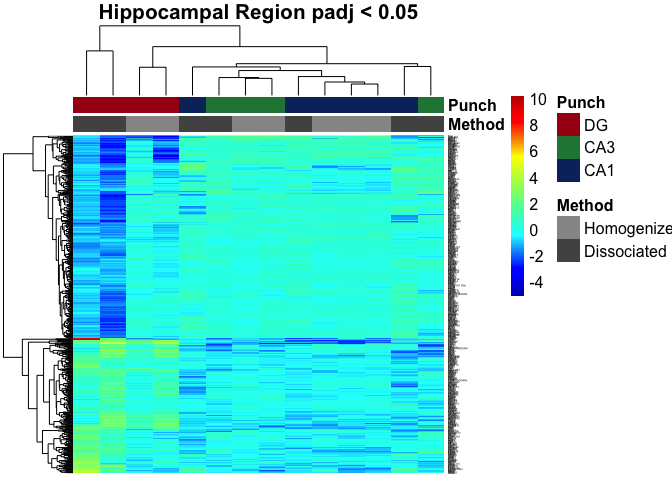
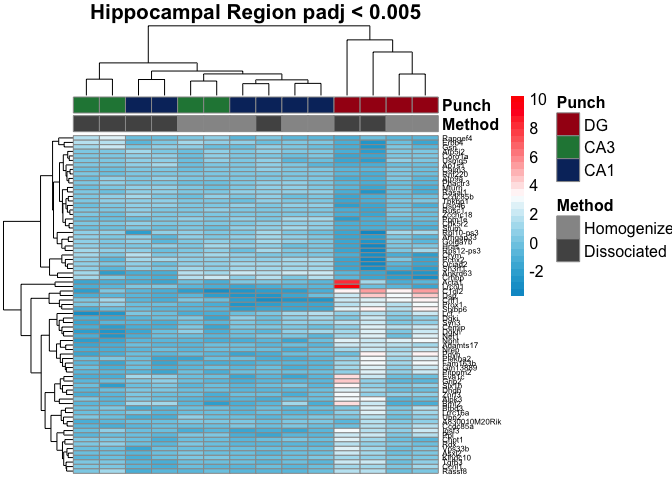
new figs

diff --git a/bin/DissociationTest.md b/bin/DissociationTest.md
@@ -9,9 +9,7 @@ This PCA gives an overview of the variability between samples using the a large 
 
 This Venn Diagram shows the number of differentially expressed by contrast described above each oval. The most number of genes are differntially expressed between DG and the CAs (nearly 1000) wheras only about 200 were differntailly regulated as a result of of technical maniplulation comparing homogenized and dissociated samples.
 
-![](../figures/allregions_onlyhomodiss/VennDiagram.png)
-
-![](../figures/allregions_onlyhomodiss/VennDiagram-1.png)
+![](../figures/allregions_onlyhomodiss/VennDiagram-1.png)![](../figures/allregions_onlyhomodiss/VennDiagram-2.png)
 
 I'm not really happy with these two heat maps. Here's how I created them. Top heatmap: subset the data to give only the gene with an adjusted p value \< 0.05 for the homogenized vs dissociated comparisonany two-way comparsion. Bottom heatmap: subset the data to give only the gene with an adjusted p value \< 0.05 for two way brain region comparision (CA1 vs DG, CA3, vs DG, or CA1 vs DG)
 
